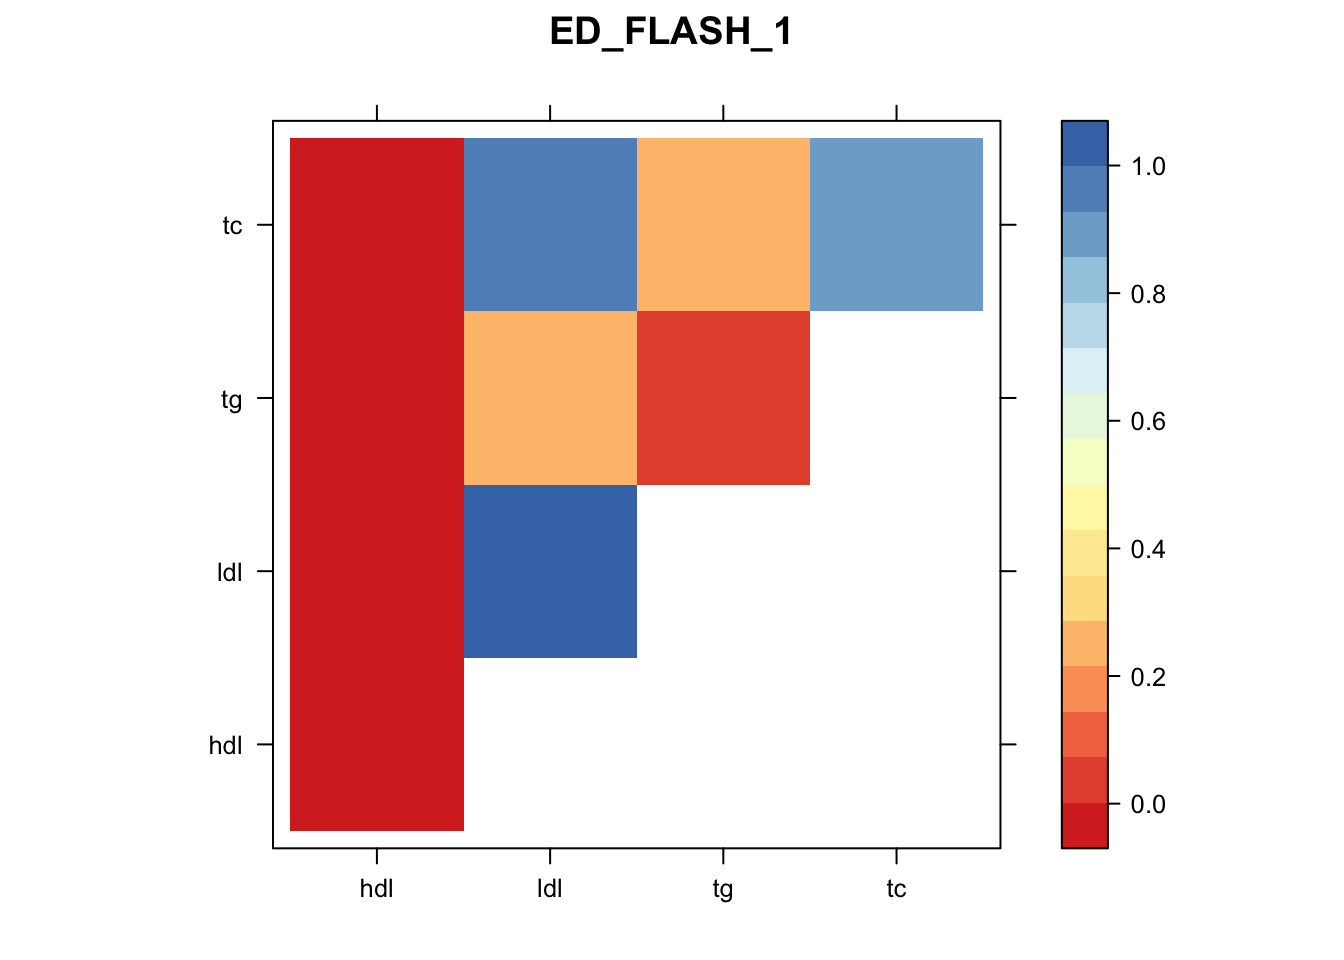
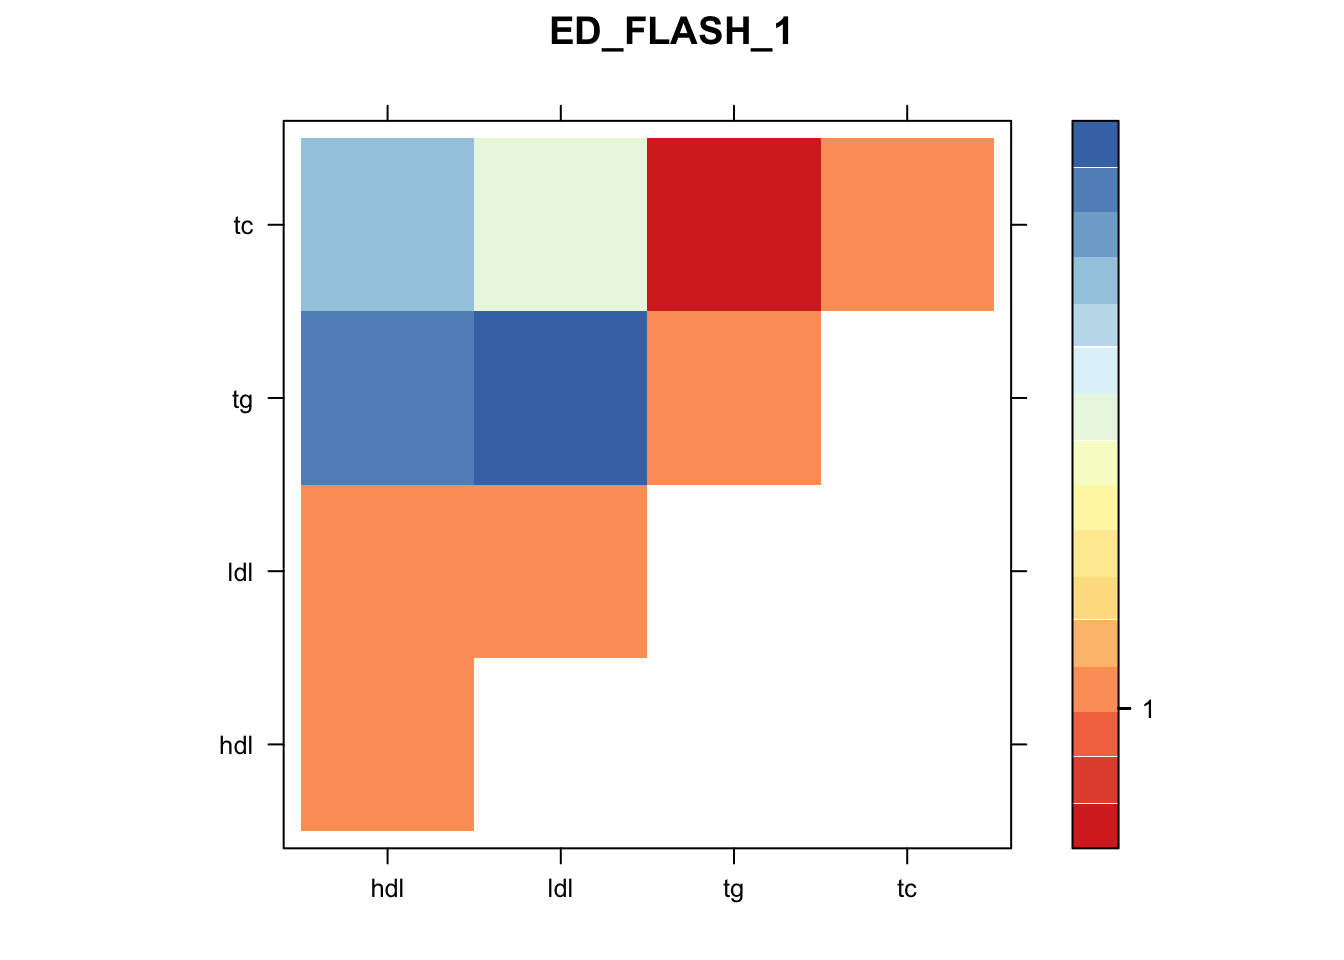
Updated plots

diff --git a/docs/workingwithdata.html b/docs/workingwithdata.html
@@ -337,7 +337,7 @@ div.section {
 <div class="tab-content">
 <div id="summary" class="tab-pane fade in active">
 <p>
-<strong>Last updated:</strong> 2019-10-03
+<strong>Last updated:</strong> 2019-10-04
 </p>
 <p>
 <strong>Checks:</strong> <span class="glyphicon glyphicon-ok text-success" aria-hidden="true"></span> 4 <span class="glyphicon glyphicon-exclamation-sign text-danger" aria-hidden="true"></span> 3
@@ -361,7 +361,7 @@ This reproducible <a href="http://rmarkdown.rstudio.com">R Markdown</a> analysis
 </div>
 <div id="strongRMarkdownfilestronguncommittedchanges" class="panel-collapse collapse">
 <div class="panel-body">
-<p>The R Markdown is untracked by Git. To know which version of the R Markdown file created these results, you’ll want to first commit it to the Git repo. If you’re still working on the analysis, you can ignore this warning. When you’re finished, you can run <code>wflow_publish</code> to commit the R Markdown file and build the HTML.</p>
+<p>The R Markdown file has unstaged changes. To know which version of the R Markdown file created these results, you’ll want to first commit it to the Git repo. If you’re still working on the analysis, you can ignore this warning. When you’re finished, you can run <code>wflow_publish</code> to commit the R Markdown file and build the HTML.</p>
 </div>
 </div>
 </div>
@@ -432,6 +432,12 @@ unnamed-chunk-4
 <li>
 unnamed-chunk-5
 </li>
+<li>
+unnamed-chunk-6
+</li>
+<li>
+unnamed-chunk-7
+</li>
 </ul>
 <p>To ensure reproducibility of the results, delete the cache directory <code>workingwithdata_cache</code> and re-run the analysis. To have workflowr automatically delete the cache directory prior to building the file, set <code>delete_cache = TRUE</code> when running <code>wflow_build()</code> or <code>wflow_publish()</code>.</p>
 </div>
@@ -492,6 +498,30 @@ data/max_ld_block.txt
 data/EDcov.Rds
 </td>
 </tr>
+<tr>
+<td style="text-align:left;">
+~/lipids_mvp/data/mashresult.rds
+</td>
+<td style="text-align:left;">
+data/mashresult.rds
+</td>
+</tr>
+<tr>
+<td style="text-align:left;">
+~/lipids_mvp/data/mashcomplete.rds
+</td>
+<td style="text-align:left;">
+data/mashcomplete.rds
+</td>
+</tr>
+<tr>
+<td style="text-align:left;">
+~/lipids_mvp/data/ash.rds
+</td>
+<td style="text-align:left;">
+data/ash.rds
+</td>
+</tr>
 </tbody>
 </table>
 </div>
@@ -500,10 +530,10 @@ data/EDcov.Rds
 <div class="panel panel-default">
 <div class="panel-heading">
 <p class="panel-title">
-<a data-toggle="collapse" data-parent="#workflowr-checks" href="#strongRepositoryversionstrongahrefhttpsgithubcomsurbutlipidsmvptreeca158bfe3fb11c32becd8beed2cd252e9229904ctargetblankca158bfa"> <span class="glyphicon glyphicon-ok text-success" aria-hidden="true"></span> <strong>Repository version:</strong> <a href="https://github.com/surbut/lipids_mvp/tree/ca158bfe3fb11c32becd8beed2cd252e9229904c" target="_blank">ca158bf</a> </a>
+<a data-toggle="collapse" data-parent="#workflowr-checks" href="#strongRepositoryversionstrongahrefhttpsgithubcomsurbutlipidsmvptree73da9ad68a26424b93dbae5e6899fdfbe8b9053btargetblank73da9ada"> <span class="glyphicon glyphicon-ok text-success" aria-hidden="true"></span> <strong>Repository version:</strong> <a href="https://github.com/surbut/lipids_mvp/tree/73da9ad68a26424b93dbae5e6899fdfbe8b9053b" target="_blank">73da9ad</a> </a>
 </p>
 </div>
[2 lines of base64/hex data omitted]
 <div class="panel-body">
 <p>
 Great! You are using Git for version control. Tracking code development and connecting the code version to the results is critical for reproducibility. The version displayed above was the version of the Git repository at the time these results were generated. <br><br> Note that you need to be careful to ensure that all relevant files for the analysis have been committed to Git prior to generating the results (you can use <code>wflow_publish</code> or <code>wflow_git_commit</code>). workflowr only checks the R Markdown file, but you know if there are other scripts or data files that it depends on. Below is the status of the Git repository when the results were generated:
@@ -513,10 +543,15 @@ Ignored files:
     Ignored:    .DS_Store
     Ignored:    .Rhistory
     Ignored:    analysis/.DS_Store
+    Ignored:    analysis/.RData
+    Ignored:    analysis/.Rhistory
     Ignored:    analysis/workingwithdata_cache/
     Ignored:    data/.DS_Store
     Ignored:    data/Archive.zip.gz
     Ignored:    data/EDcov.Rds
+    Ignored:    data/ash.rds
+    Ignored:    data/mashcomplete.rds
+    Ignored:    data/mashcomplete.rds.zip
     Ignored:    data/max_ld_block.txt
     Ignored:    data/merged_betas.txt
     Ignored:    data/merged_se.txt
@@ -525,7 +560,11 @@ Ignored files:
     Ignored:    docs/.DS_Store
 
 Untracked files:
-    Untracked:  analysis/workingwithdata.Rmd
+    Untracked:  analysis/workingwithdata.knit.md
+    Untracked:  analysis/workingwithdata.utf8.md
+
+Unstaged changes:
+    Modified:   analysis/workingwithdata.Rmd
 
 </code></pre>
 <p>
@@ -564,6 +603,40 @@ Message
 </tr>
 </thead>
 <tbody>
+<tr>
+<td>
+Rmd
+</td>
+<td>
+<a href="https://github.com/surbut/lipids_mvp/blob/73da9ad68a26424b93dbae5e6899fdfbe8b9053b/analysis/workingwithdata.Rmd" target="_blank">73da9ad</a>
+</td>
+<td>
+Sarah Urbut
+</td>
+<td>
+2019-10-03
+</td>
+<td>
+Update
+</td>
+</tr>
+<tr>
+<td>
+html
+</td>
+<td>
+<a href="https://rawcdn.githack.com/surbut/lipids_mvp/73da9ad68a26424b93dbae5e6899fdfbe8b9053b/docs/workingwithdata.html" target="_blank">73da9ad</a>
+</td>
+<td>
+Sarah Urbut
+</td>
+<td>
+2019-10-03
+</td>
+<td>
+Update
+</td>
+</tr>
 <tr>
 <td>
 html
@@ -627,8 +700,7 @@ write.table(z,&quot;merged_z.txt&quot;)</code></pre>
 # znew=cbind(df$foo.Chr,df$foo.Pos,z[,-1])
 # maxes=apply(znew[,c(&quot;hdl&quot;,&quot;ldl&quot;,&quot;tg&quot;,&quot;tc&quot;)],1,function(x){max(abs(x))})
 # znew=cbind(znew,maxes)</code></pre>
-<pre class="r"><code>znew=read.table(&quot;~/lipids_mvp/data/znew.txt&quot;)
-max_block=data.frame(matrix(ncol = ncol(znew), nrow = nrow(bed)))
+<pre class="r"><code>max_block=data.frame(matrix(ncol = ncol(znew), nrow = nrow(bed)))
 colnames(max_block)=colnames(znew)
 for(i in 1:nrow(bed)){
   chr=bed[i,1]
@@ -652,41 +724,20 @@ for(i in 1:nrow(bed)){
 max_block=na.omit(max_block)
 write.table(max_block,&quot;max_ld_block.txt&quot;)</code></pre>
 <p>Now, we’re ready to mash!</p>
-<pre class="r"><code>library(&quot;mashr&quot;)
+<pre class="r"><code>znew=read.table(&quot;~/lipids_mvp/data/znew.txt&quot;)
+library(&quot;mashr&quot;)
 library(&quot;flashr&quot;)
 max_block=read.table(&quot;~/lipids_mvp/data/max_ld_block.txt&quot;)
-## source(&#39;~/Dropbox/jointData/flashscript.R&#39;)
+source(&#39;~/Dropbox/jointData/flashscript.R&#39;)
 # identify a random subset of 20000 tests
 random.subset = sample(1:nrow(znew),20000)
 zmash=as.matrix(znew[,c(&quot;hdl&quot;,&quot;ldl&quot;,&quot;tg&quot;,&quot;tc&quot;)]);rownames(zmash)=znew$rsid
 data.temp = mash_set_data(zmash[random.subset,],alpha = 1)
-
 Vhat = estimate_null_correlation_simple(data.temp)
-rm(data.temp)
-data.random = mash_set_data(zmash[random.subset,],alpha = 1,V=Vhat)
+library(&quot;lattice&quot;)
+clrs = colorRampPalette((c(&quot;#D73027&quot;,&quot;#FC8D59&quot;,&quot;#FEE090&quot;,&quot;#FFFFBF&quot;, &quot;#E0F3F8&quot;,&quot;#91BFDB&quot;,&quot;#4575B4&quot;)))(64)
 
-zmax=apply(max_block[,c(4:7)],2,function(x){as.numeric(x)});rownames(zmax)=max_block$rsid
-data.strong = mash_set_data(zmax,alpha = 1,V=Vhat)
-
-U.pca = cov_pca(data.strong,3)
-
-# U.flash=cov_flash(data.strong, non_canonical = TRUE)
-# X.center = apply(data.strong$Bhat, 2, function(x) x - mean(x))
-# U.ed = cov_ed(data.strong, c(U.flash, U.pca, list(&quot;XX&quot; = t(X.center) %*% X.center / nrow(X.center))))
-# saveRDS(U.ed,&quot;EDcov.Rds&quot;)
-
-U.ed=readRDS(&quot;~/lipids_mvp/data/EDcov.Rds&quot;)
-U.c = cov_canonical(data.random)
-m = mash(data.random, Ulist = c(U.ed,U.c),outputlevel = 1)</code></pre>
-<pre><code> - Computing 20000 x 321 likelihood matrix.
- - Likelihood calculations took 0.73 seconds.
- - Fitting model with 321 mixture components.
- - Model fitting took 32.56 seconds.</code></pre>
-<pre class="r"><code>k=length(m$fitted_g$Ulist)
-l=length(m$fitted_g$grid)
-pimat=matrix(m$fitted_g$pi[-1],nrow=l,byrow=T)
-colnames(pimat)=names(m$fitted_g$pi)[2:(k+1)]
-barplot(colSums(pimat),las=2)</code></pre>
+print(levelplot(Vhat,col.regions = clrs,xlab = &quot;&quot;,ylab = &quot;&quot;,colorkey = TRUE,main=&quot;VHAT&quot;))</code></pre>
 <p><img src="figure/workingwithdata.Rmd/unnamed-chunk-4-1.png" width="672" style="display: block; margin: auto;" /></p>
 <p>
 <button type="button" class="btn btn-default btn-xs btn-workflowr btn-workflowr-fig" data-toggle="collapse" data-target="#fig-unnamed-chunk-4-1">
@@ -725,10 +776,36 @@ Sarah Urbut
 </table>
 </div>
 </div>
-<p>Now, let’s plot the patterns of sharing:</p>
+<pre class="r"><code>rm(data.temp)
+data.random = mash_set_data(zmash[random.subset,],alpha = 1,V=Vhat)
+
+zmax=apply(max_block[,c(4:7)],2,function(x){as.numeric(x)});rownames(zmax)=max_block$rsid
+data.strong = mash_set_data(zmax,alpha = 1,V=Vhat)
+
+U.pca = cov_pca(data.strong,3)
+
+# U.flash=cov_flash(data.strong, non_canonical = TRUE)
+# X.center = apply(data.strong$Bhat, 2, function(x) x - mean(x))
+# U.ed = cov_ed(data.strong, c(U.flash, U.pca, list(&quot;XX&quot; = t(X.center) %*% X.center / nrow(X.center))))
+# saveRDS(U.ed,&quot;~/lipids_mvp/data/EDcov.Rds&quot;)
+
+U.ed=readRDS(&quot;~/lipids_mvp/data/EDcov.Rds&quot;)
+U.c = cov_canonical(data.random)
+m = mash(data.random, Ulist = c(U.ed,U.c),outputlevel = 1)</code></pre>
+<pre><code> - Computing 20000 x 321 likelihood matrix.
+ - Likelihood calculations took 2.13 seconds.
+ - Fitting model with 321 mixture components.
+ - Model fitting took 31.55 seconds.</code></pre>
+<pre class="r"><code>k=length(m$fitted_g$Ulist)
+l=length(m$fitted_g$grid)
+pimat=matrix(m$fitted_g$pi[-1],nrow=l,byrow=T)
+colnames(pimat)=names(m$fitted_g$pi)[2:(k+1)]
+barplot(colSums(pimat),las=2)</code></pre>
+<p><img src="figure/workingwithdata.Rmd/unnamed-chunk-4-2.png" width="672" style="display: block; margin: auto;" /></p>
+<p>Now, let’s plot the patterns of sharing as the correlation matrix of the estimated covariance matrices. We can see that from the barplot, there are the following matrices: ED_FLASH_1.1, ED_tFLASH.1, ED_PCA_1.1, ED_PCA_2.1, ED_PCA_3.1, ED_tPCA.1, ED_XX.1, identity.1, hdl.1, ldl.1, tg.1, tc.1, equal_effects.1, simple_het_1.1, simple_het_2.1, simple_het_3.1.</p>
 <pre class="r"><code>library(&quot;lattice&quot;)
 for(i in 1:k){
-  z.num=as.matrix(m$fitted_g$Ulist[[i]])
+  z.num=as.matrix(cov2cor(m$fitted_g$Ulist[[i]]))
   colnames(z.num)=row.names(z.num)=colnames(zmash)
 clrs = colorRampPalette((c(&quot;#D73027&quot;,&quot;#FC8D59&quot;,&quot;#FEE090&quot;,&quot;#FFFFBF&quot;, &quot;#E0F3F8&quot;,&quot;#91BFDB&quot;,&quot;#4575B4&quot;)))(64)
 z.num[lower.tri(z.num)] = NA
@@ -1000,6 +1077,8 @@ Sarah Urbut
 </table>
 </div>
 </div>
+<pre><code>Warning in cov2cor(m$fitted_g$Ulist[[i]]): diag(.) had 0 or NA entries;
+non-finite result is doubtful</code></pre>
 <p><img src="figure/workingwithdata.Rmd/unnamed-chunk-5-8.png" width="672" style="display: block; margin: auto;" /></p>
 <p>
 <button type="button" class="btn btn-default btn-xs btn-workflowr btn-workflowr-fig" data-toggle="collapse" data-target="#fig-unnamed-chunk-5-8">
@@ -1038,6 +1117,8 @@ Sarah Urbut
 </table>
 </div>
 </div>
+<pre><code>Warning in cov2cor(m$fitted_g$Ulist[[i]]): diag(.) had 0 or NA entries;
+non-finite result is doubtful</code></pre>
 <p><img src="figure/workingwithdata.Rmd/unnamed-chunk-5-9.png" width="672" style="display: block; margin: auto;" /></p>
 <p>
 <button type="button" class="btn btn-default btn-xs btn-workflowr btn-workflowr-fig" data-toggle="collapse" data-target="#fig-unnamed-chunk-5-9">
@@ -1076,6 +1157,8 @@ Sarah Urbut
 </table>
 </div>
 </div>
+<pre><code>Warning in cov2cor(m$fitted_g$Ulist[[i]]): diag(.) had 0 or NA entries;
+non-finite result is doubtful</code></pre>
 <p><img src="figure/workingwithdata.Rmd/unnamed-chunk-5-10.png" width="672" style="display: block; margin: auto;" /></p>
 <p>
 <button type="button" class="btn btn-default btn-xs btn-workflowr btn-workflowr-fig" data-toggle="collapse" data-target="#fig-unnamed-chunk-5-10">
@@ -1114,6 +1197,8 @@ Sarah Urbut
 </table>
 </div>
 </div>
+<pre><code>Warning in cov2cor(m$fitted_g$Ulist[[i]]): diag(.) had 0 or NA entries;
+non-finite result is doubtful</code></pre>
 <p><img src="figure/workingwithdata.Rmd/unnamed-chunk-5-11.png" width="672" style="display: block; margin: auto;" /></p>
 <p>
 <button type="button" class="btn btn-default btn-xs btn-workflowr btn-workflowr-fig" data-toggle="collapse" data-target="#fig-unnamed-chunk-5-11">
@@ -1342,6 +1427,43 @@ Sarah Urbut
 </table>
 </div>
 </div>
+<p>Now we can compute posteriors,</p>
+<pre class="r"><code>mash.data=mash_set_data(zmash,V = Vhat,alpha = 1)
+
+m$result=mash_compute_posterior_matrices(m, mash.data, algorithm.version = &quot;Rcpp&quot;)
+saveRDS(m,&quot;~/lipids_mvp/data/mashresult.rds&quot;)</code></pre>
+<p>Let’s take a look:</p>
+<pre class="r"><code>m=readRDS(&quot;~/lipids_mvp/data/mashcomplete.rds&quot;)
+head(m$result$PosteriorMean)</code></pre>
+<pre><code>                   hdl         ldl           tg          tc
+rs1172982   0.06015013  0.10542699  0.002012870  0.11805417
+rs1172981   0.28626776  0.05244131 -0.188875181  0.10104744
+rs11166327 -0.11849671 -0.01776064  0.085266561 -0.03603278
+rs4908018   0.31317283  0.05412064 -0.209288205  0.10681010
+rs2392072   0.05437422  0.09588751  0.002789049  0.10754994
+rs12129588  0.34618757  0.07306129 -0.225178675  0.13174043</code></pre>
+<pre class="r"><code>head(m$result$lfsr)</code></pre>
+<pre><code>                 hdl       ldl        tg        tc
+rs1172982  0.6283334 0.5228317 0.6311741 0.5223916
+rs1172981  0.4205101 0.4270629 0.4196412 0.4274541
+rs11166327 0.5462653 0.5541580 0.5434676 0.5553625
+rs4908018  0.4001065 0.4115782 0.3989821 0.4121384
+rs2392072  0.6310612 0.5339740 0.6339992 0.5334568
+rs12129588 0.3834876 0.3805365 0.3827029 0.3809647</code></pre>
+<pre class="r"><code>lfsr=m$result$lfsr
+s=rowSums(lfsr&lt;=0.05)
+
+hist(s[s&gt;1],freq=FALSE,main=&quot;Number of Conditions&quot;)</code></pre>
+<p><img src="figure/workingwithdata.Rmd/unnamed-chunk-7-1.png" width="672" style="display: block; margin: auto;" /></p>
+<pre class="r"><code>#ash.z=apply(zmash,2,function(x){ashr::ash(x,sebetahat = rep(1,length(x)))})
+#saveRDS(ash.z,&quot;../data/ash.rds&quot;)
+ash.z=readRDS(&quot;~/lipids_mvp/data/ash.rds&quot;)
+ashresults=cbind(ash.z$hdl$result$PosteriorMean,ash.z$ldl$result$PosteriorMean,ash.z$tg$result$PosteriorMean,ash.z$tc$result$PosteriorMean)
+ashlfsr=cbind(ash.z$hdl$result$lfsr,ash.z$ldl$result$lfsr,ash.z$tg$result$lfsr,ash.z$tc$result$lfsr)
+
+sum(ashlfsr&lt;0.05)</code></pre>
+<pre><code>[1] 29301</code></pre>
+<p>Here 29301 SNPS x Conditions are less than 0.05 using a univariate appropach and 80539 are less than 0.05 with a joint approach, a roughly 250% increase. Furthermore, 32176 SNPS are significant in at least one condition wiht a juint approach, while 18099 with a univariate one.</p>
 <br>
 <p>
 <button type="button" class="btn btn-default btn-workflowr btn-workflowr-sessioninfo" data-toggle="collapse" data-target="#workflowr-sessioninfo" style="display: block;">
@@ -1438,7 +1560,7 @@ $(document).ready(function () {
 <!-- code folding -->
 <script>
 $(document).ready(function () {
-  window.initializeCodeFolding("show" === "show");
+  window.initializeCodeFolding("hide" === "show");
 });
 </script>
 
